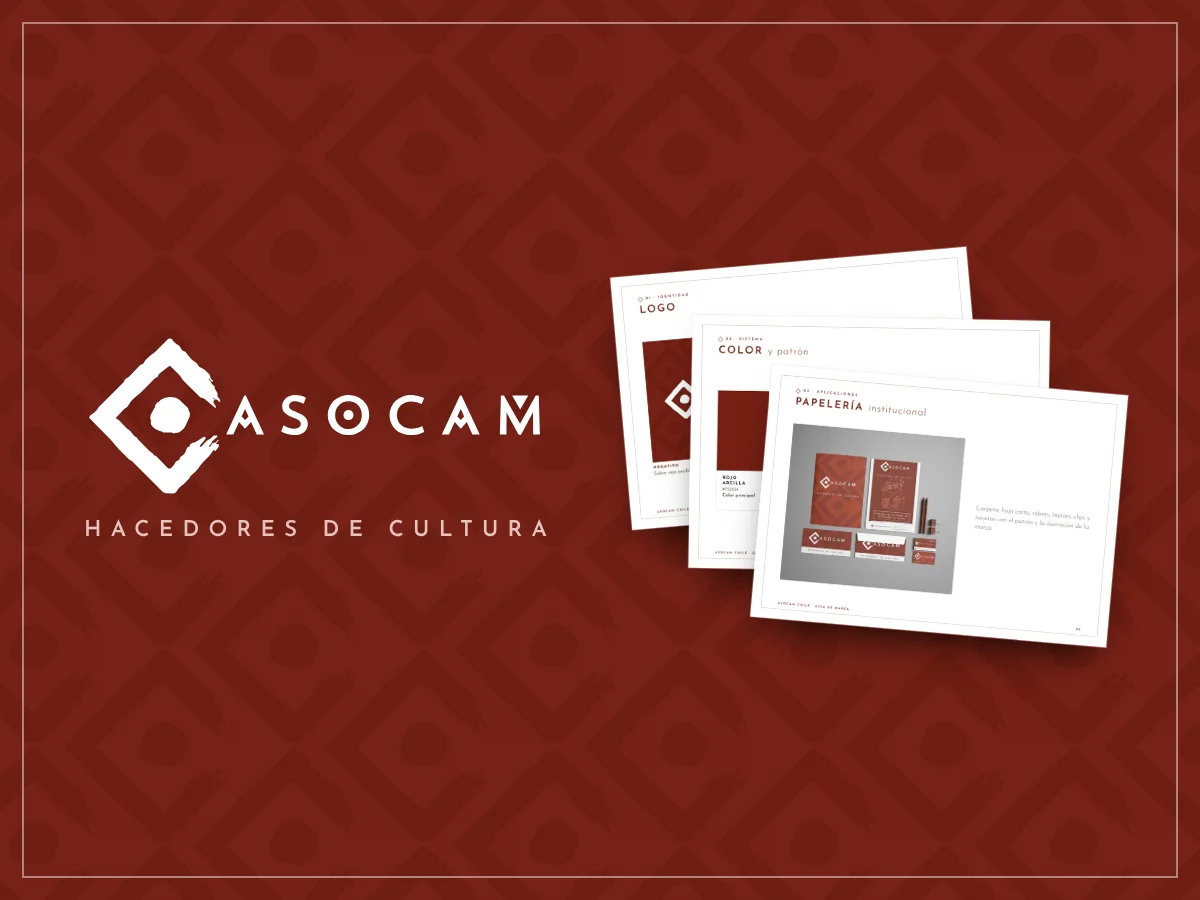
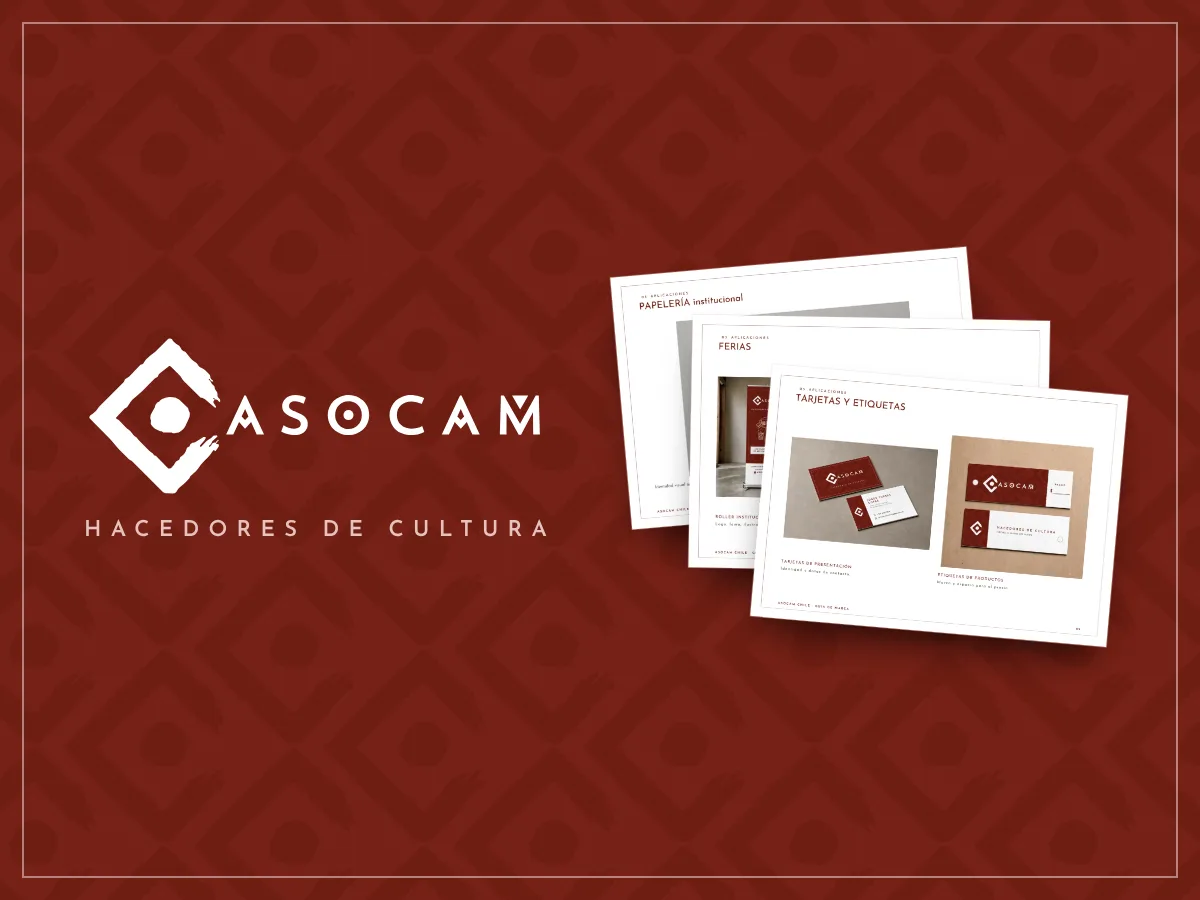
ASOCAM: portada de la tarjeta con el mismo formato que las otras marcas
Claude-Session: https://claude.ai/code/session_01MtPmk7gxzdfgW79Ci4jH3T

Changed region(s): [[0.5242, 0.3111, 0.925, 0.6844]]

diff --git a/index.html b/index.html
@@ -1604,7 +1604,7 @@ body.nav-up #grafico-ithilien .ith-manual{--ith-sticky-top:0px}
 <span class="gx-txt"><span class="gx-kind"><svg aria-hidden="true" class="ic"><use href="#i-shapes"></use></svg>Branding</span><b>Across the Universe</b></span>
 </a>
 <a class="gx-card" href="#grafico-asocam">
-<span class="gx-thumb"><img alt="" loading="lazy" src="img/asocam/identidad-nueva.webp" style="object-position:center"/></span>
+<span class="gx-thumb"><img alt="" loading="lazy" src="img/asocam/portada.webp"/></span>
 <span class="gx-txt"><span class="gx-kind"><svg aria-hidden="true" class="ic"><use href="#i-palette"></use></svg>Branding</span><b>ASOCAM Chile</b></span>
 </a>
 <a class="gx-card" href="#grafico-ilhabella">
